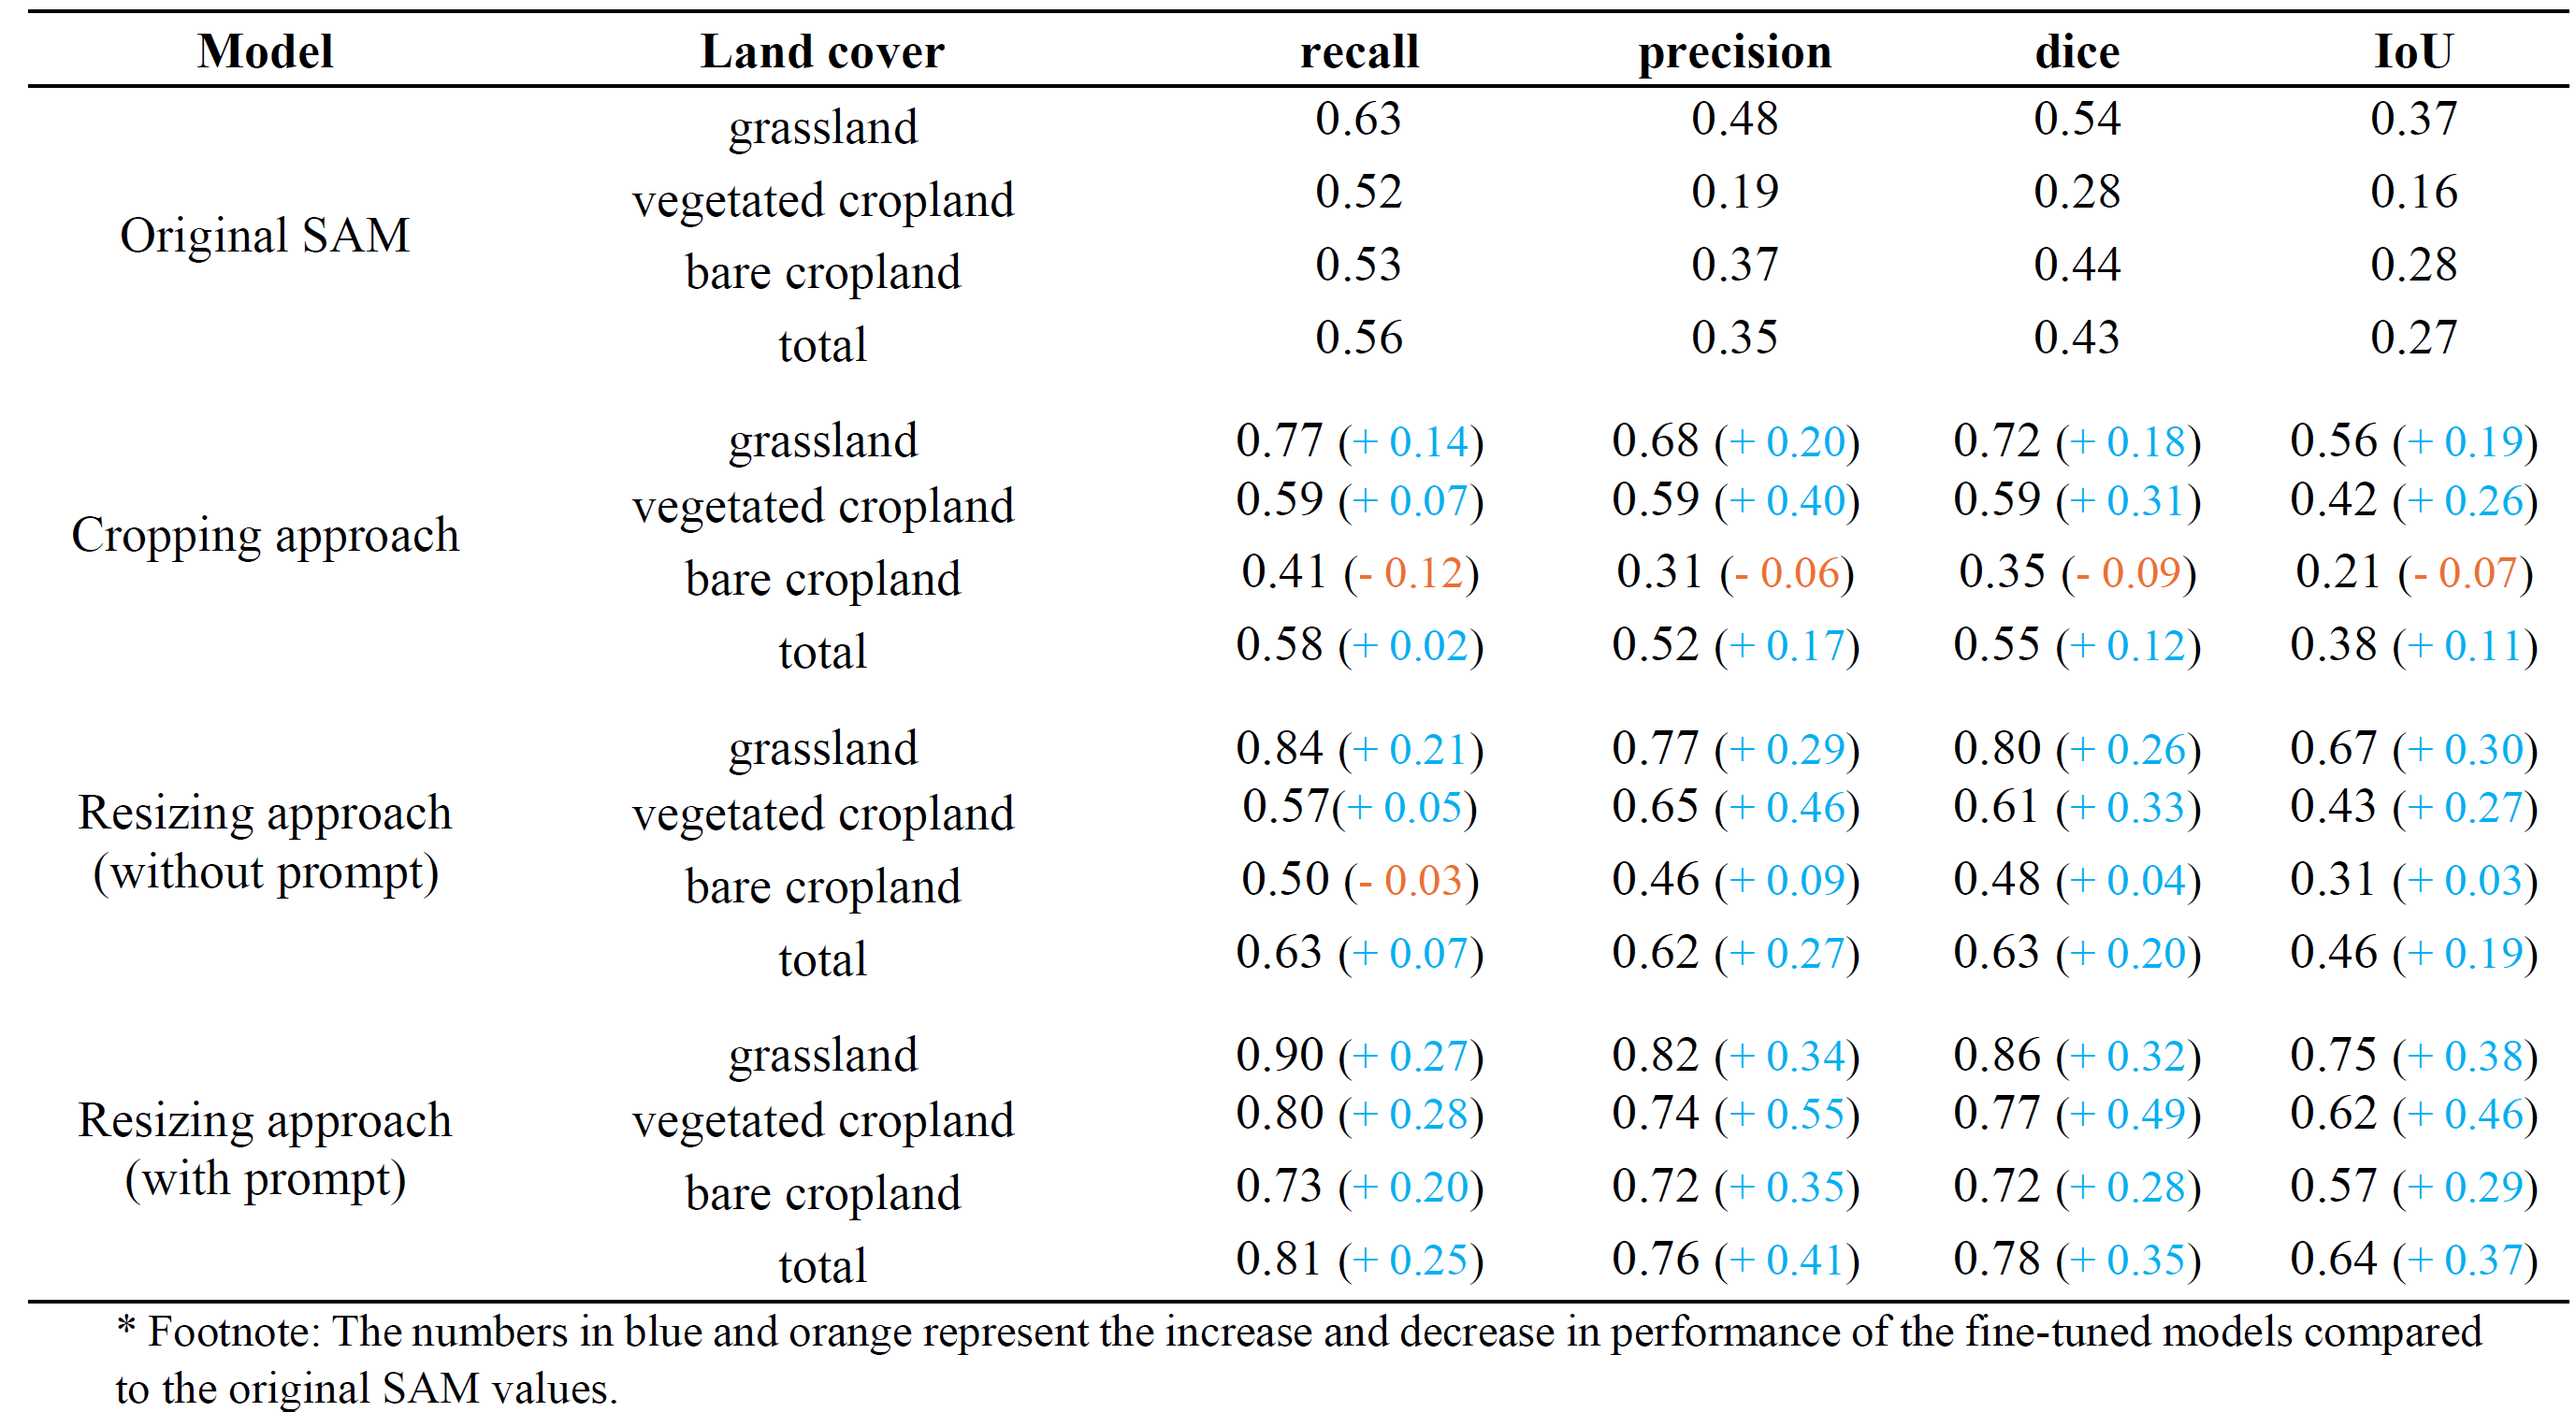
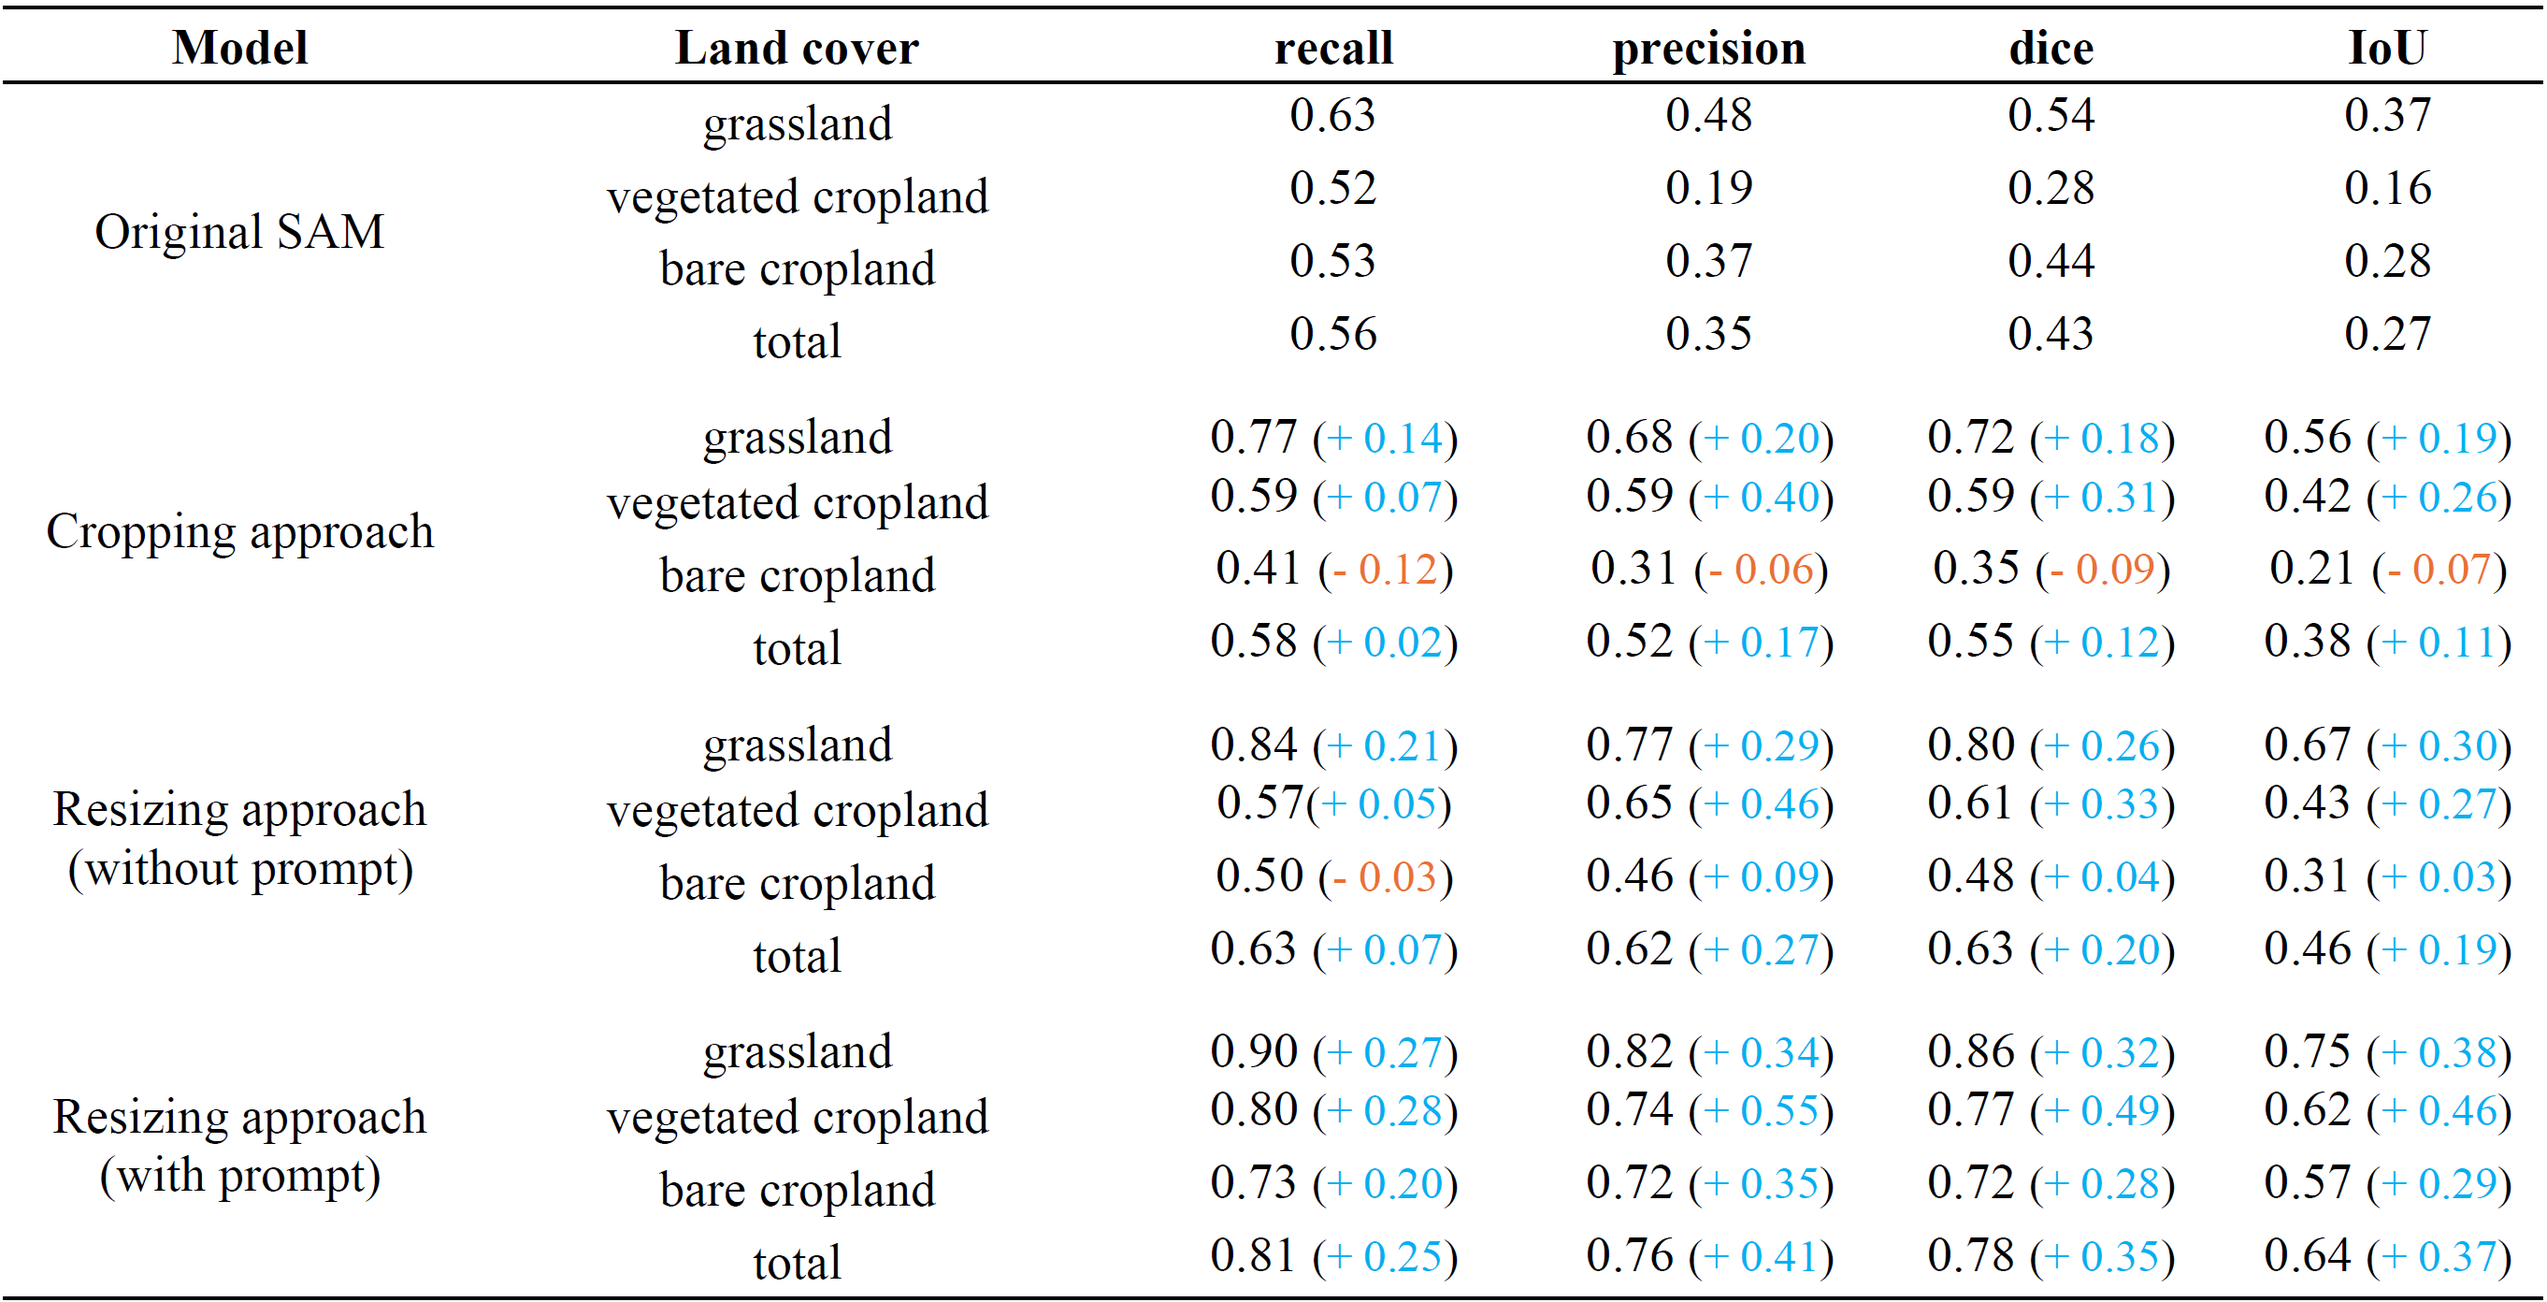
Erosion-SAM project update

diff --git a/_projects/1_project.md b/_projects/1_project.md
@@ -8,6 +8,13 @@ category: work
 related_publications: true
 ---
 
+<style>
+  .project p {
+    text-align: justify;
+    text-justify: inter-word;
+  }
+</style>
+
 The **Erosion-SAM** project presents an automated approach for semantic segmentation of soil erosion features caused by water in agricultural landscapes. Published in **CATENA** (2025), this work demonstrates how fine-tuning the Segment Anything Model (SAM) enables accurate detection of erosion and deposition features from high-resolution aerial imagery.
 
 {% cite shokati2025erosionsam %}
@@ -74,11 +81,7 @@ The table below shows the performance of different approaches across land cover 
         {% include figure.liquid path="assets/img/Erosion-SAM-table.png" title="Performance metrics comparison" class="img-fluid rounded z-depth-1" %}
     </div>
 </div>
-<div class="caption">
-    Performance comparison of different fine-tuning approaches (Cropping, Resizing without prompt, Resizing with prompt) against the original SAM baseline across different land cover types. Metrics include recall, precision, Dice coefficient, and IoU. The best performing approach (Resizing with prompt) achieved significant improvements: total recall of 0.81 (+0.25), precision of 0.76 (+0.41), Dice of 0.78 (+0.35), and IoU of 0.64 (+0.37) compared to original SAM.
-</div>
 
-The **Resizing approach with prompt** demonstrated the best overall performance with substantial improvements across all metrics and land cover types, particularly excelling in grassland detection (IoU: 0.75, +0.38 improvement).
 
 ### Segmentation Examples
 
